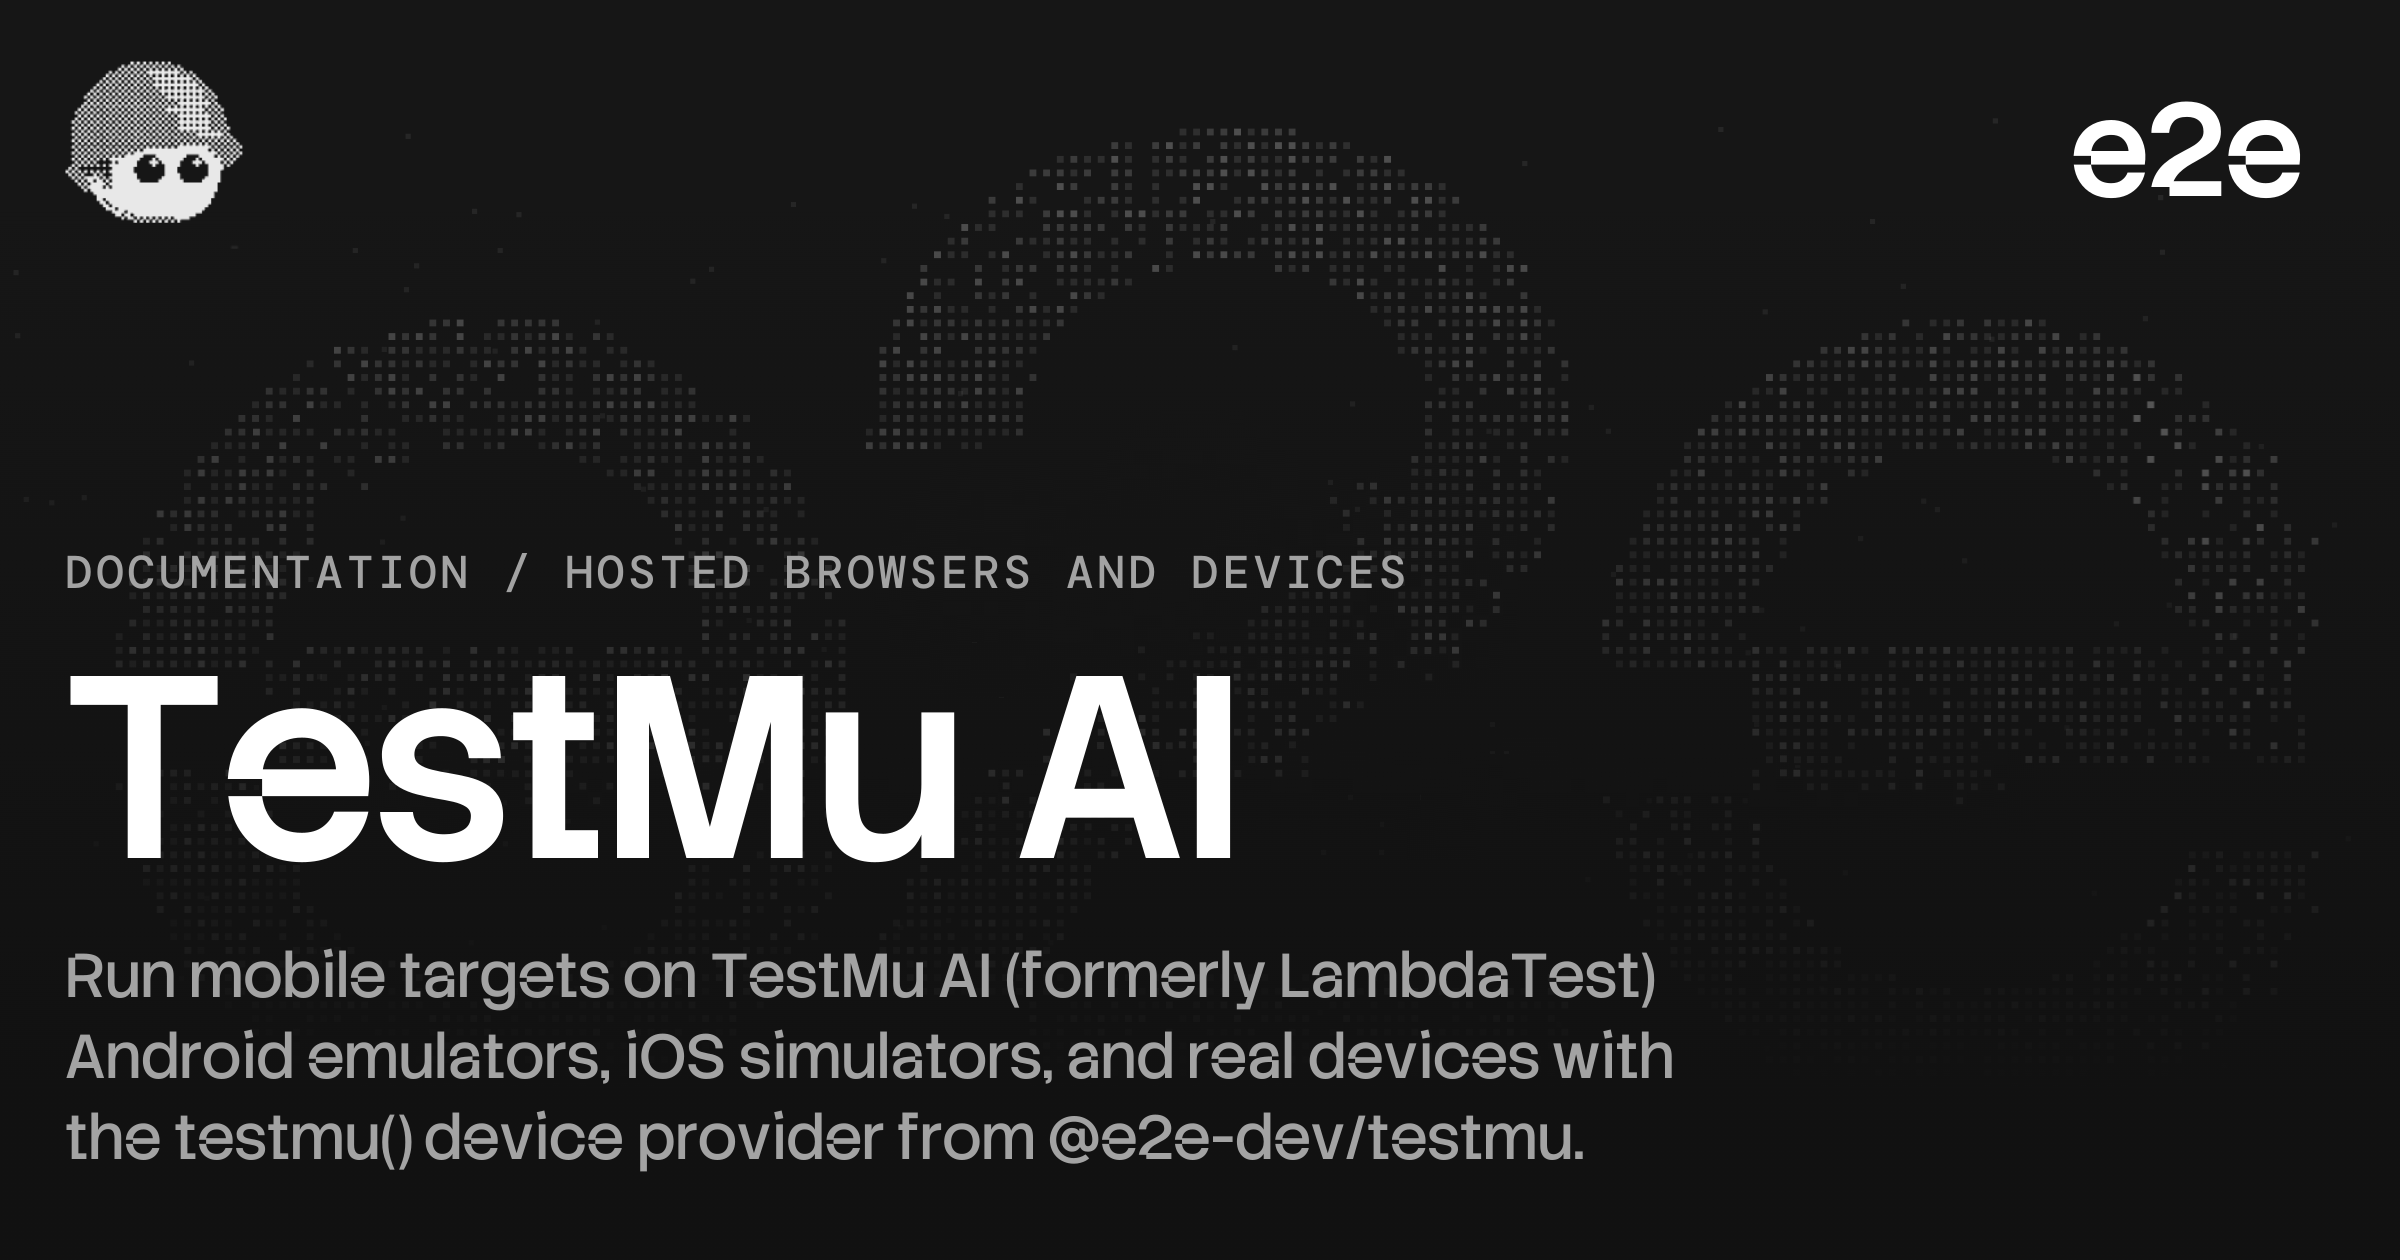
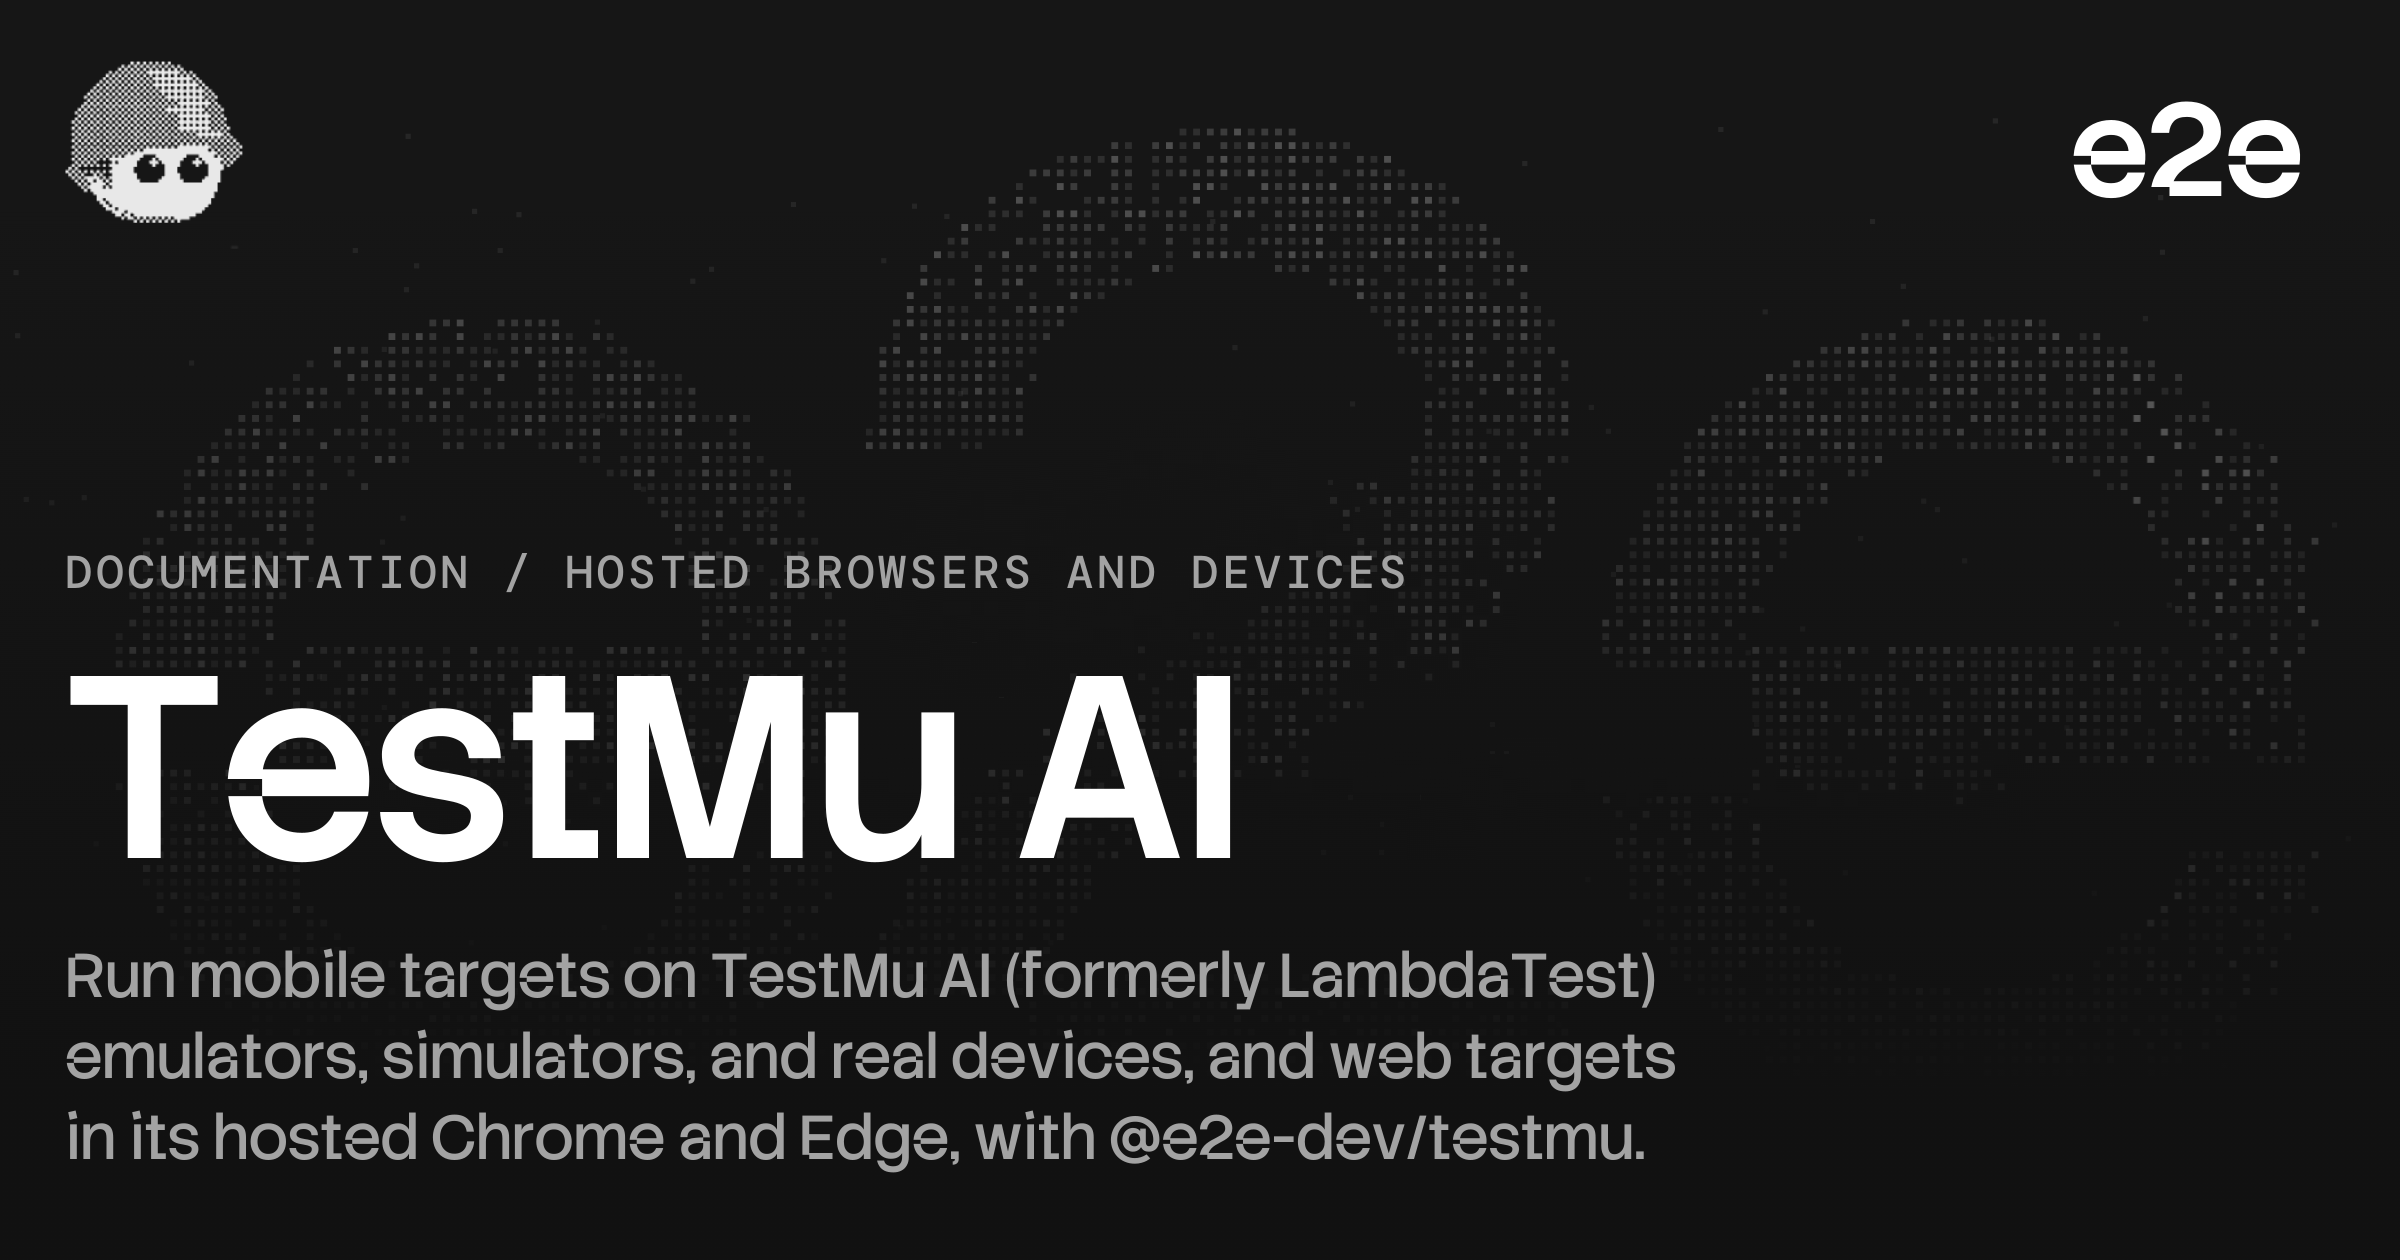
docs(testmu): merge the device and browser pages into one (#1330)

Changed region(s): [[0.0312, 0.8048, 0.7188, 0.9286]]

diff --git a/scripts/check-docs-examples.ts b/scripts/check-docs-examples.ts
@@ -41,7 +41,7 @@ const EXAMPLES: Record<string, string> = {
   'docs/examples/mobile/testmu.config.ts': 'docs/integrations/testmu.mdx',
   'docs/examples/mobile/testmu.e2e.ts': 'docs/integrations/testmu.mdx',
   'docs/examples/web/browser-provider.ts': 'docs/browser.mdx',
-  'docs/examples/web/testmu-browsers.config.ts': 'docs/integrations/testmu-browsers.mdx',
+  'docs/examples/web/testmu-browsers.config.ts': 'docs/integrations/testmu.mdx',
   'docs/examples/models/e2e.decision.config.ts': 'docs/decision-models.mdx',
   'docs/examples/models/tests/decision.e2e.ts': 'docs/decision-models.mdx',
   'docs/examples/skill/e2e.config.ts': 'skills/e2e/SKILL.md',

diff --git a/packages/testmu/README.md b/packages/testmu/README.md
@@ -61,7 +61,7 @@ export default {
 It reads the same `LT_USERNAME` and `LT_ACCESS_KEY`. `browserName` is `Chrome` (default)
 or `MicrosoftEdge`, and `capabilities` takes `browserVersion` and `LT:Options` fields such
 as `platform`, `geoLocation`, and `video`. See the
-[browsers guide](https://e2e.tester.army/docs/integrations/testmu-browsers) for the
+[integration guide](https://e2e.tester.army/docs/integrations/testmu) for the
 defaults and the limits.
 
 ## License
